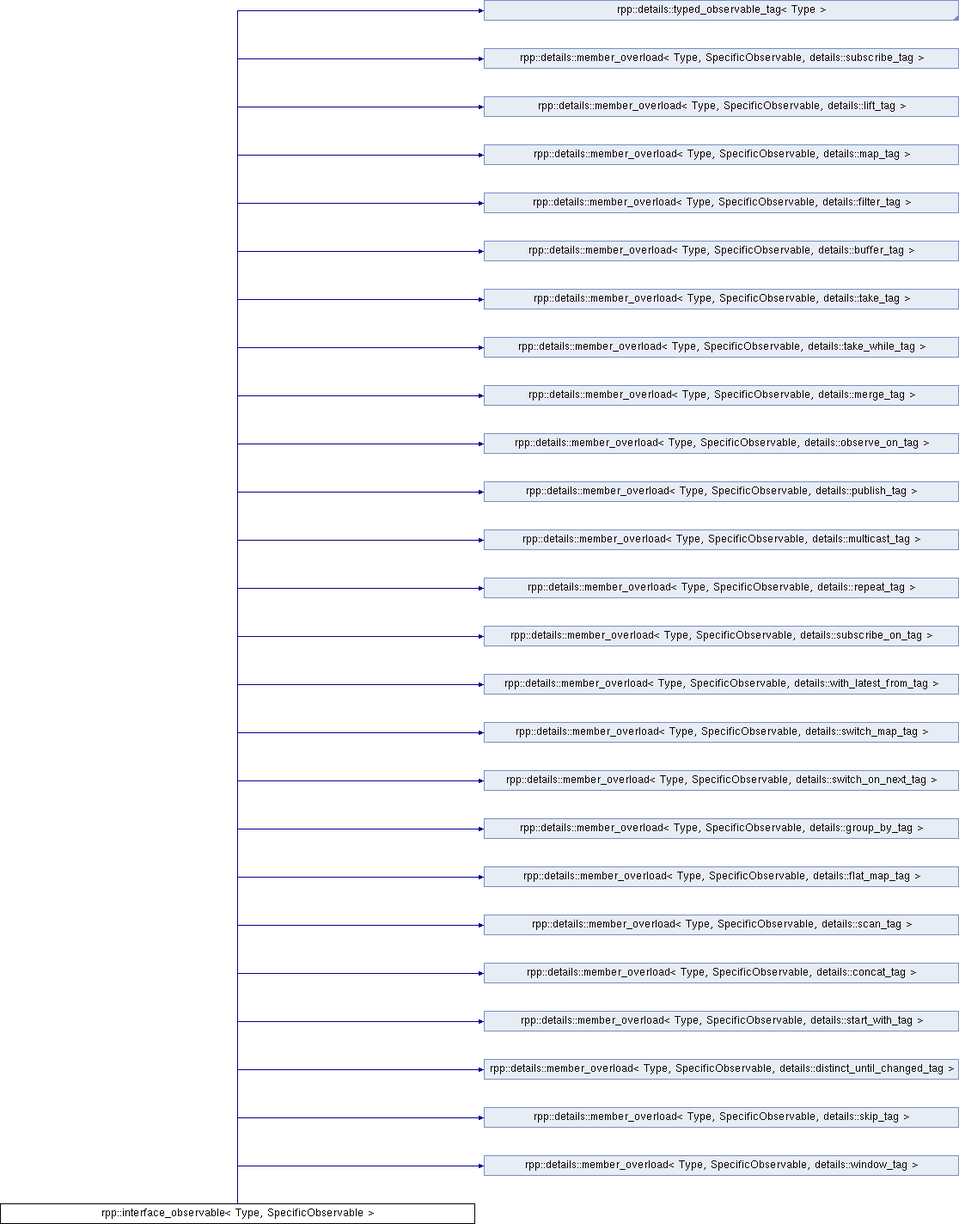
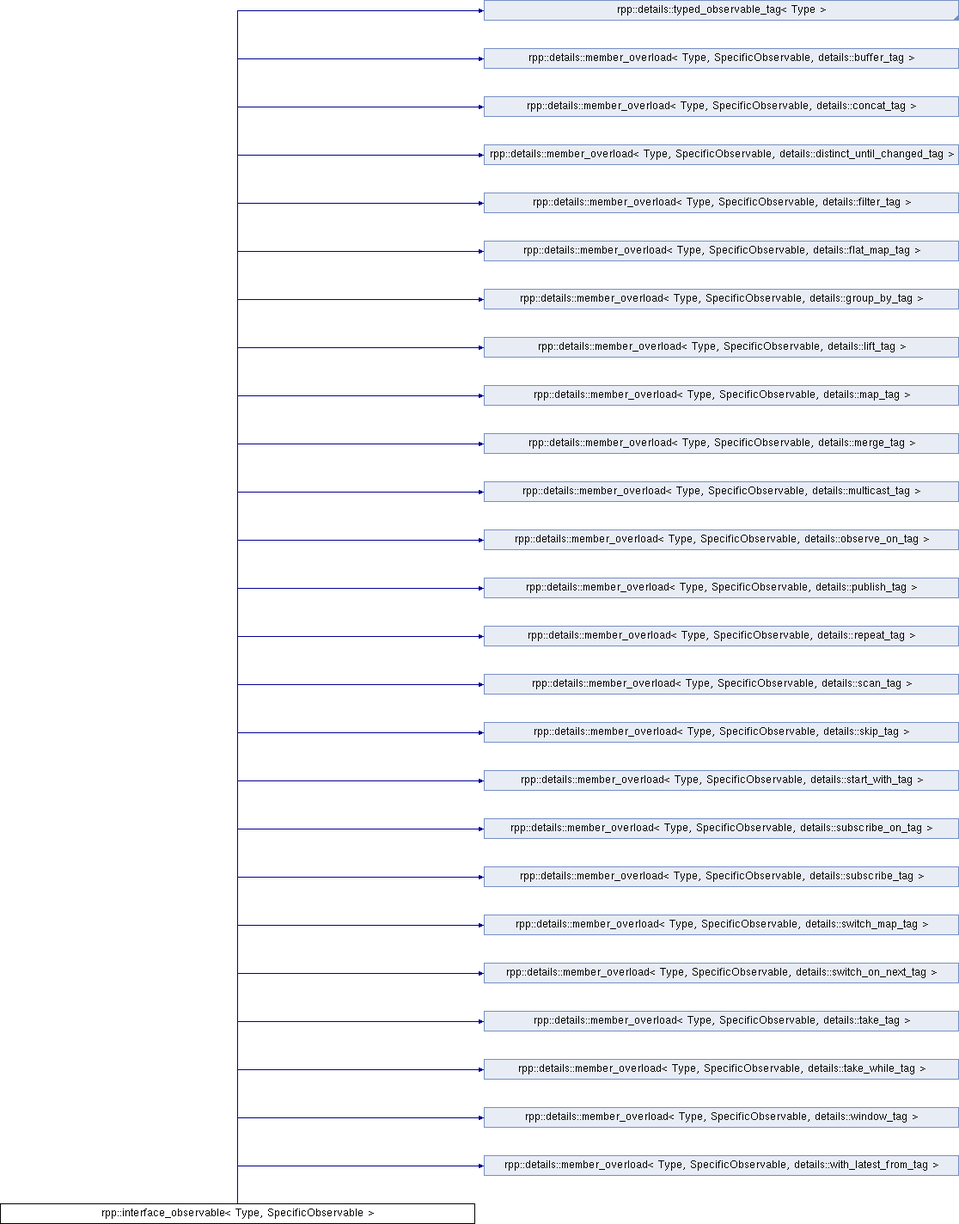
deploy: 225c458d7fb690f1608eee347e35d6b1c98f86ba

Changed region(s): [[0.853, 0.4635, 0.8835, 0.4944]]

diff --git a/docs/html/interface__observable_8hpp_source.html b/docs/html/interface__observable_8hpp_source.html
@@ -130,30 +130,30 @@ $(document).ready(function(){initNavTree('interface__observable_8hpp_source.html
 <div class="line"><a name="l00037"></a><span class="lineno">   37</span>&#160;<span class="keyword">template</span>&lt;constra<span class="keywordtype">int</span>::decayed_type Type, <span class="keyword">typename</span> SpecificObservable&gt;</div>
 <div class="line"><a name="l00038"></a><span class="lineno"><a class="line" href="structrpp_1_1interface__observable.html">   38</a></span>&#160;<span class="keyword">struct </span>RPP_EMPTY_BASES <a class="code" href="structrpp_1_1interface__observable.html">interface_observable</a></div>
 <div class="line"><a name="l00039"></a><span class="lineno">   39</span>&#160;    : <span class="keyword">public</span> <a class="code" href="structrpp_1_1details_1_1typed__observable__tag.html">details::typed_observable_tag</a>&lt;Type&gt;</div>
-<div class="line"><a name="l00040"></a><span class="lineno">   40</span>&#160;    , <a class="code" href="structrpp_1_1details_1_1member__overload.html">details::member_overload</a>&lt;Type, SpecificObservable, details::subscribe_tag&gt;</div>
-<div class="line"><a name="l00041"></a><span class="lineno">   41</span>&#160;    , <a class="code" href="structrpp_1_1details_1_1member__overload.html">details::member_overload</a>&lt;Type, SpecificObservable, details::lift_tag&gt;</div>
-<div class="line"><a name="l00042"></a><span class="lineno">   42</span>&#160;    , <a class="code" href="structrpp_1_1details_1_1member__overload.html">details::member_overload</a>&lt;Type, SpecificObservable, details::map_tag&gt;</div>
+<div class="line"><a name="l00040"></a><span class="lineno">   40</span>&#160;    , <a class="code" href="structrpp_1_1details_1_1member__overload.html">details::member_overload</a>&lt;Type, SpecificObservable, details::buffer_tag&gt;</div>
+<div class="line"><a name="l00041"></a><span class="lineno">   41</span>&#160;    , <a class="code" href="structrpp_1_1details_1_1member__overload.html">details::member_overload</a>&lt;Type, SpecificObservable, details::concat_tag&gt;</div>
+<div class="line"><a name="l00042"></a><span class="lineno">   42</span>&#160;    , <a class="code" href="structrpp_1_1details_1_1member__overload.html">details::member_overload</a>&lt;Type, SpecificObservable, details::distinct_until_changed_tag&gt;</div>
 <div class="line"><a name="l00043"></a><span class="lineno">   43</span>&#160;    , <a class="code" href="structrpp_1_1details_1_1member__overload.html">details::member_overload</a>&lt;Type, SpecificObservable, details::filter_tag&gt;</div>
-<div class="line"><a name="l00044"></a><span class="lineno">   44</span>&#160;    , <a class="code" href="structrpp_1_1details_1_1member__overload.html">details::member_overload</a>&lt;Type, SpecificObservable, details::buffer_tag&gt;</div>
-<div class="line"><a name="l00045"></a><span class="lineno">   45</span>&#160;    , <a class="code" href="structrpp_1_1details_1_1member__overload.html">details::member_overload</a>&lt;Type, SpecificObservable, details::take_tag&gt;</div>
-<div class="line"><a name="l00046"></a><span class="lineno">   46</span>&#160;    , <a class="code" href="structrpp_1_1details_1_1member__overload.html">details::member_overload</a>&lt;Type, SpecificObservable, details::take_while_tag&gt;</div>
-<div class="line"><a name="l00047"></a><span class="lineno">   47</span>&#160;    , <a class="code" href="structrpp_1_1details_1_1member__overload.html">details::member_overload</a>&lt;Type, SpecificObservable, details::merge_tag&gt;</div>
-<div class="line"><a name="l00048"></a><span class="lineno">   48</span>&#160;    , <a class="code" href="structrpp_1_1details_1_1member__overload.html">details::member_overload</a>&lt;Type, SpecificObservable, details::observe_on_tag&gt;</div>
-<div class="line"><a name="l00049"></a><span class="lineno">   49</span>&#160;    , <a class="code" href="structrpp_1_1details_1_1member__overload.html">details::member_overload</a>&lt;Type, SpecificObservable, details::publish_tag&gt;</div>
-<div class="line"><a name="l00050"></a><span class="lineno">   50</span>&#160;    , <a class="code" href="structrpp_1_1details_1_1member__overload.html">details::member_overload</a>&lt;Type, SpecificObservable, details::multicast_tag&gt;</div>
-<div class="line"><a name="l00051"></a><span class="lineno">   51</span>&#160;    , <a class="code" href="structrpp_1_1details_1_1member__overload.html">details::member_overload</a>&lt;Type, SpecificObservable, details::repeat_tag&gt;</div>
-<div class="line"><a name="l00052"></a><span class="lineno">   52</span>&#160;    , <a class="code" href="structrpp_1_1details_1_1member__overload.html">details::member_overload</a>&lt;Type, SpecificObservable, details::subscribe_on_tag&gt;</div>
-<div class="line"><a name="l00053"></a><span class="lineno">   53</span>&#160;    , <a class="code" href="structrpp_1_1details_1_1member__overload.html">details::member_overload</a>&lt;Type, SpecificObservable, details::with_latest_from_tag&gt;</div>
-<div class="line"><a name="l00054"></a><span class="lineno">   54</span>&#160;    , <a class="code" href="structrpp_1_1details_1_1member__overload.html">details::member_overload</a>&lt;Type, SpecificObservable, details::switch_map_tag&gt;</div>
-<div class="line"><a name="l00055"></a><span class="lineno">   55</span>&#160;    , <a class="code" href="structrpp_1_1details_1_1member__overload.html">details::member_overload</a>&lt;Type, SpecificObservable, details::switch_on_next_tag&gt;</div>
-<div class="line"><a name="l00056"></a><span class="lineno">   56</span>&#160;    , <a class="code" href="structrpp_1_1details_1_1member__overload.html">details::member_overload</a>&lt;Type, SpecificObservable, details::group_by_tag&gt;</div>
-<div class="line"><a name="l00057"></a><span class="lineno">   57</span>&#160;    , <a class="code" href="structrpp_1_1details_1_1member__overload.html">details::member_overload</a>&lt;Type, SpecificObservable, details::flat_map_tag&gt;</div>
-<div class="line"><a name="l00058"></a><span class="lineno">   58</span>&#160;    , <a class="code" href="structrpp_1_1details_1_1member__overload.html">details::member_overload</a>&lt;Type, SpecificObservable, details::scan_tag&gt;</div>
-<div class="line"><a name="l00059"></a><span class="lineno">   59</span>&#160;    , <a class="code" href="structrpp_1_1details_1_1member__overload.html">details::member_overload</a>&lt;Type, SpecificObservable, details::concat_tag&gt;</div>
-<div class="line"><a name="l00060"></a><span class="lineno">   60</span>&#160;    , <a class="code" href="structrpp_1_1details_1_1member__overload.html">details::member_overload</a>&lt;Type, SpecificObservable, details::start_with_tag&gt;</div>
-<div class="line"><a name="l00061"></a><span class="lineno">   61</span>&#160;    , <a class="code" href="structrpp_1_1details_1_1member__overload.html">details::member_overload</a>&lt;Type, SpecificObservable, details::distinct_until_changed_tag&gt;</div>
-<div class="line"><a name="l00062"></a><span class="lineno">   62</span>&#160;    , <a class="code" href="structrpp_1_1details_1_1member__overload.html">details::member_overload</a>&lt;Type, SpecificObservable, details::skip_tag&gt;</div>
-<div class="line"><a name="l00063"></a><span class="lineno">   63</span>&#160;    , <a class="code" href="structrpp_1_1details_1_1member__overload.html">details::member_overload</a>&lt;Type, SpecificObservable, details::window_tag&gt;</div>
+<div class="line"><a name="l00044"></a><span class="lineno">   44</span>&#160;    , <a class="code" href="structrpp_1_1details_1_1member__overload.html">details::member_overload</a>&lt;Type, SpecificObservable, details::flat_map_tag&gt;</div>
+<div class="line"><a name="l00045"></a><span class="lineno">   45</span>&#160;    , <a class="code" href="structrpp_1_1details_1_1member__overload.html">details::member_overload</a>&lt;Type, SpecificObservable, details::group_by_tag&gt;</div>
+<div class="line"><a name="l00046"></a><span class="lineno">   46</span>&#160;    , <a class="code" href="structrpp_1_1details_1_1member__overload.html">details::member_overload</a>&lt;Type, SpecificObservable, details::lift_tag&gt;</div>
+<div class="line"><a name="l00047"></a><span class="lineno">   47</span>&#160;    , <a class="code" href="structrpp_1_1details_1_1member__overload.html">details::member_overload</a>&lt;Type, SpecificObservable, details::map_tag&gt;</div>
+<div class="line"><a name="l00048"></a><span class="lineno">   48</span>&#160;    , <a class="code" href="structrpp_1_1details_1_1member__overload.html">details::member_overload</a>&lt;Type, SpecificObservable, details::merge_tag&gt;</div>
+<div class="line"><a name="l00049"></a><span class="lineno">   49</span>&#160;    , <a class="code" href="structrpp_1_1details_1_1member__overload.html">details::member_overload</a>&lt;Type, SpecificObservable, details::multicast_tag&gt;</div>
+<div class="line"><a name="l00050"></a><span class="lineno">   50</span>&#160;    , <a class="code" href="structrpp_1_1details_1_1member__overload.html">details::member_overload</a>&lt;Type, SpecificObservable, details::observe_on_tag&gt;</div>
+<div class="line"><a name="l00051"></a><span class="lineno">   51</span>&#160;    , <a class="code" href="structrpp_1_1details_1_1member__overload.html">details::member_overload</a>&lt;Type, SpecificObservable, details::publish_tag&gt;</div>
+<div class="line"><a name="l00052"></a><span class="lineno">   52</span>&#160;    , <a class="code" href="structrpp_1_1details_1_1member__overload.html">details::member_overload</a>&lt;Type, SpecificObservable, details::repeat_tag&gt;</div>
+<div class="line"><a name="l00053"></a><span class="lineno">   53</span>&#160;    , <a class="code" href="structrpp_1_1details_1_1member__overload.html">details::member_overload</a>&lt;Type, SpecificObservable, details::scan_tag&gt;</div>
+<div class="line"><a name="l00054"></a><span class="lineno">   54</span>&#160;    , <a class="code" href="structrpp_1_1details_1_1member__overload.html">details::member_overload</a>&lt;Type, SpecificObservable, details::skip_tag&gt;</div>
+<div class="line"><a name="l00055"></a><span class="lineno">   55</span>&#160;    , <a class="code" href="structrpp_1_1details_1_1member__overload.html">details::member_overload</a>&lt;Type, SpecificObservable, details::start_with_tag&gt;</div>
+<div class="line"><a name="l00056"></a><span class="lineno">   56</span>&#160;    , <a class="code" href="structrpp_1_1details_1_1member__overload.html">details::member_overload</a>&lt;Type, SpecificObservable, details::subscribe_on_tag&gt;</div>
+<div class="line"><a name="l00057"></a><span class="lineno">   57</span>&#160;    , <a class="code" href="structrpp_1_1details_1_1member__overload.html">details::member_overload</a>&lt;Type, SpecificObservable, details::subscribe_tag&gt;</div>
+<div class="line"><a name="l00058"></a><span class="lineno">   58</span>&#160;    , <a class="code" href="structrpp_1_1details_1_1member__overload.html">details::member_overload</a>&lt;Type, SpecificObservable, details::switch_map_tag&gt;</div>
+<div class="line"><a name="l00059"></a><span class="lineno">   59</span>&#160;    , <a class="code" href="structrpp_1_1details_1_1member__overload.html">details::member_overload</a>&lt;Type, SpecificObservable, details::switch_on_next_tag&gt;</div>
+<div class="line"><a name="l00060"></a><span class="lineno">   60</span>&#160;    , <a class="code" href="structrpp_1_1details_1_1member__overload.html">details::member_overload</a>&lt;Type, SpecificObservable, details::take_tag&gt;</div>
+<div class="line"><a name="l00061"></a><span class="lineno">   61</span>&#160;    , <a class="code" href="structrpp_1_1details_1_1member__overload.html">details::member_overload</a>&lt;Type, SpecificObservable, details::take_while_tag&gt;</div>
+<div class="line"><a name="l00062"></a><span class="lineno">   62</span>&#160;    , <a class="code" href="structrpp_1_1details_1_1member__overload.html">details::member_overload</a>&lt;Type, SpecificObservable, details::window_tag&gt;</div>
+<div class="line"><a name="l00063"></a><span class="lineno">   63</span>&#160;    , <a class="code" href="structrpp_1_1details_1_1member__overload.html">details::member_overload</a>&lt;Type, SpecificObservable, details::with_latest_from_tag&gt;</div>
 <div class="line"><a name="l00064"></a><span class="lineno">   64</span>&#160;{</div>
 <div class="line"><a name="l00065"></a><span class="lineno">   65</span>&#160;<span class="keyword">public</span>:</div>
 <div class="line"><a name="l00066"></a><span class="lineno">   66</span>&#160; </div>

diff --git a/docs/html/structrpp_1_1interface__observable.html b/docs/html/structrpp_1_1interface__observable.html
@@ -110,30 +110,30 @@ Inheritance diagram for rpp::interface_observable&lt; Type, SpecificObservable &
  <div class="center">
   <img src="structrpp_1_1interface__observable.png" usemap="#rpp::interface_5Fobservable_3C_20Type_2C_20SpecificObservable_20_3E_map" alt=""/>
   <map id="rpp::interface_5Fobservable_3C_20Type_2C_20SpecificObservable_20_3E_map" name="rpp::interface_5Fobservable_3C_20Type_2C_20SpecificObservable_20_3E_map">
-<area href="structrpp_1_1details_1_1member__overload.html" alt="rpp::details::member_overload&lt; Type, SpecificObservable, details::window_tag &gt;" shape="rect" coords="563,1344,1116,1368"/>
-<area href="structrpp_1_1details_1_1member__overload.html" alt="rpp::details::member_overload&lt; Type, SpecificObservable, details::skip_tag &gt;" shape="rect" coords="563,1288,1116,1312"/>
-<area href="structrpp_1_1details_1_1member__overload.html" alt="rpp::details::member_overload&lt; Type, SpecificObservable, details::distinct_until_changed_tag &gt;" shape="rect" coords="563,1232,1116,1256"/>
-<area href="structrpp_1_1details_1_1member__overload.html" alt="rpp::details::member_overload&lt; Type, SpecificObservable, details::start_with_tag &gt;" shape="rect" coords="563,1176,1116,1200"/>
-<area href="structrpp_1_1details_1_1member__overload.html" alt="rpp::details::member_overload&lt; Type, SpecificObservable, details::concat_tag &gt;" shape="rect" coords="563,1120,1116,1144"/>
-<area href="structrpp_1_1details_1_1member__overload.html" alt="rpp::details::member_overload&lt; Type, SpecificObservable, details::scan_tag &gt;" shape="rect" coords="563,1064,1116,1088"/>
-<area href="structrpp_1_1details_1_1member__overload.html" alt="rpp::details::member_overload&lt; Type, SpecificObservable, details::flat_map_tag &gt;" shape="rect" coords="563,1008,1116,1032"/>
-<area href="structrpp_1_1details_1_1member__overload.html" alt="rpp::details::member_overload&lt; Type, SpecificObservable, details::group_by_tag &gt;" shape="rect" coords="563,952,1116,976"/>
-<area href="structrpp_1_1details_1_1member__overload.html" alt="rpp::details::member_overload&lt; Type, SpecificObservable, details::switch_on_next_tag &gt;" shape="rect" coords="563,896,1116,920"/>
-<area href="structrpp_1_1details_1_1member__overload.html" alt="rpp::details::member_overload&lt; Type, SpecificObservable, details::switch_map_tag &gt;" shape="rect" coords="563,840,1116,864"/>
-<area href="structrpp_1_1details_1_1member__overload.html" alt="rpp::details::member_overload&lt; Type, SpecificObservable, details::with_latest_from_tag &gt;" shape="rect" coords="563,784,1116,808"/>
-<area href="structrpp_1_1details_1_1member__overload.html" alt="rpp::details::member_overload&lt; Type, SpecificObservable, details::subscribe_on_tag &gt;" shape="rect" coords="563,728,1116,752"/>
-<area href="structrpp_1_1details_1_1member__overload.html" alt="rpp::details::member_overload&lt; Type, SpecificObservable, details::repeat_tag &gt;" shape="rect" coords="563,672,1116,696"/>
-<area href="structrpp_1_1details_1_1member__overload.html" alt="rpp::details::member_overload&lt; Type, SpecificObservable, details::multicast_tag &gt;" shape="rect" coords="563,616,1116,640"/>
-<area href="structrpp_1_1details_1_1member__overload.html" alt="rpp::details::member_overload&lt; Type, SpecificObservable, details::publish_tag &gt;" shape="rect" coords="563,560,1116,584"/>
-<area href="structrpp_1_1details_1_1member__overload.html" alt="rpp::details::member_overload&lt; Type, SpecificObservable, details::observe_on_tag &gt;" shape="rect" coords="563,504,1116,528"/>
-<area href="structrpp_1_1details_1_1member__overload.html" alt="rpp::details::member_overload&lt; Type, SpecificObservable, details::merge_tag &gt;" shape="rect" coords="563,448,1116,472"/>
-<area href="structrpp_1_1details_1_1member__overload.html" alt="rpp::details::member_overload&lt; Type, SpecificObservable, details::take_while_tag &gt;" shape="rect" coords="563,392,1116,416"/>
-<area href="structrpp_1_1details_1_1member__overload.html" alt="rpp::details::member_overload&lt; Type, SpecificObservable, details::take_tag &gt;" shape="rect" coords="563,336,1116,360"/>
-<area href="structrpp_1_1details_1_1member__overload.html" alt="rpp::details::member_overload&lt; Type, SpecificObservable, details::buffer_tag &gt;" shape="rect" coords="563,280,1116,304"/>
+<area href="structrpp_1_1details_1_1member__overload.html" alt="rpp::details::member_overload&lt; Type, SpecificObservable, details::with_latest_from_tag &gt;" shape="rect" coords="563,1344,1116,1368"/>
+<area href="structrpp_1_1details_1_1member__overload.html" alt="rpp::details::member_overload&lt; Type, SpecificObservable, details::window_tag &gt;" shape="rect" coords="563,1288,1116,1312"/>
+<area href="structrpp_1_1details_1_1member__overload.html" alt="rpp::details::member_overload&lt; Type, SpecificObservable, details::take_while_tag &gt;" shape="rect" coords="563,1232,1116,1256"/>
+<area href="structrpp_1_1details_1_1member__overload.html" alt="rpp::details::member_overload&lt; Type, SpecificObservable, details::take_tag &gt;" shape="rect" coords="563,1176,1116,1200"/>
+<area href="structrpp_1_1details_1_1member__overload.html" alt="rpp::details::member_overload&lt; Type, SpecificObservable, details::switch_on_next_tag &gt;" shape="rect" coords="563,1120,1116,1144"/>
+<area href="structrpp_1_1details_1_1member__overload.html" alt="rpp::details::member_overload&lt; Type, SpecificObservable, details::switch_map_tag &gt;" shape="rect" coords="563,1064,1116,1088"/>
+<area href="structrpp_1_1details_1_1member__overload.html" alt="rpp::details::member_overload&lt; Type, SpecificObservable, details::subscribe_tag &gt;" shape="rect" coords="563,1008,1116,1032"/>
+<area href="structrpp_1_1details_1_1member__overload.html" alt="rpp::details::member_overload&lt; Type, SpecificObservable, details::subscribe_on_tag &gt;" shape="rect" coords="563,952,1116,976"/>
+<area href="structrpp_1_1details_1_1member__overload.html" alt="rpp::details::member_overload&lt; Type, SpecificObservable, details::start_with_tag &gt;" shape="rect" coords="563,896,1116,920"/>
+<area href="structrpp_1_1details_1_1member__overload.html" alt="rpp::details::member_overload&lt; Type, SpecificObservable, details::skip_tag &gt;" shape="rect" coords="563,840,1116,864"/>
+<area href="structrpp_1_1details_1_1member__overload.html" alt="rpp::details::member_overload&lt; Type, SpecificObservable, details::scan_tag &gt;" shape="rect" coords="563,784,1116,808"/>
+<area href="structrpp_1_1details_1_1member__overload.html" alt="rpp::details::member_overload&lt; Type, SpecificObservable, details::repeat_tag &gt;" shape="rect" coords="563,728,1116,752"/>
+<area href="structrpp_1_1details_1_1member__overload.html" alt="rpp::details::member_overload&lt; Type, SpecificObservable, details::publish_tag &gt;" shape="rect" coords="563,672,1116,696"/>
+<area href="structrpp_1_1details_1_1member__overload.html" alt="rpp::details::member_overload&lt; Type, SpecificObservable, details::observe_on_tag &gt;" shape="rect" coords="563,616,1116,640"/>
+<area href="structrpp_1_1details_1_1member__overload.html" alt="rpp::details::member_overload&lt; Type, SpecificObservable, details::multicast_tag &gt;" shape="rect" coords="563,560,1116,584"/>
+<area href="structrpp_1_1details_1_1member__overload.html" alt="rpp::details::member_overload&lt; Type, SpecificObservable, details::merge_tag &gt;" shape="rect" coords="563,504,1116,528"/>
+<area href="structrpp_1_1details_1_1member__overload.html" alt="rpp::details::member_overload&lt; Type, SpecificObservable, details::map_tag &gt;" shape="rect" coords="563,448,1116,472"/>
+<area href="structrpp_1_1details_1_1member__overload.html" alt="rpp::details::member_overload&lt; Type, SpecificObservable, details::lift_tag &gt;" shape="rect" coords="563,392,1116,416"/>
+<area href="structrpp_1_1details_1_1member__overload.html" alt="rpp::details::member_overload&lt; Type, SpecificObservable, details::group_by_tag &gt;" shape="rect" coords="563,336,1116,360"/>
+<area href="structrpp_1_1details_1_1member__overload.html" alt="rpp::details::member_overload&lt; Type, SpecificObservable, details::flat_map_tag &gt;" shape="rect" coords="563,280,1116,304"/>
 <area href="structrpp_1_1details_1_1member__overload.html" alt="rpp::details::member_overload&lt; Type, SpecificObservable, details::filter_tag &gt;" shape="rect" coords="563,224,1116,248"/>
-<area href="structrpp_1_1details_1_1member__overload.html" alt="rpp::details::member_overload&lt; Type, SpecificObservable, details::map_tag &gt;" shape="rect" coords="563,168,1116,192"/>
-<area href="structrpp_1_1details_1_1member__overload.html" alt="rpp::details::member_overload&lt; Type, SpecificObservable, details::lift_tag &gt;" shape="rect" coords="563,112,1116,136"/>
-<area href="structrpp_1_1details_1_1member__overload.html" alt="rpp::details::member_overload&lt; Type, SpecificObservable, details::subscribe_tag &gt;" shape="rect" coords="563,56,1116,80"/>
+<area href="structrpp_1_1details_1_1member__overload.html" alt="rpp::details::member_overload&lt; Type, SpecificObservable, details::distinct_until_changed_tag &gt;" shape="rect" coords="563,168,1116,192"/>
+<area href="structrpp_1_1details_1_1member__overload.html" alt="rpp::details::member_overload&lt; Type, SpecificObservable, details::concat_tag &gt;" shape="rect" coords="563,112,1116,136"/>
+<area href="structrpp_1_1details_1_1member__overload.html" alt="rpp::details::member_overload&lt; Type, SpecificObservable, details::buffer_tag &gt;" shape="rect" coords="563,56,1116,80"/>
 <area href="structrpp_1_1details_1_1typed__observable__tag.html" alt="rpp::details::typed_observable_tag&lt; Type &gt;" shape="rect" coords="563,0,1116,24"/>
   </map>
 </div></div>

diff --git a/docs/html/operators_2fwd_8hpp_source.html b/docs/html/operators_2fwd_8hpp_source.html
@@ -108,30 +108,30 @@ $(document).ready(function(){initNavTree('operators_2fwd_8hpp_source.html',''); 
 <div class="line"><a name="l00010"></a><span class="lineno">   10</span>&#160; </div>
 <div class="line"><a name="l00011"></a><span class="lineno">   11</span>&#160;<span class="preprocessor">#pragma once</span></div>
 <div class="line"><a name="l00012"></a><span class="lineno">   12</span>&#160; </div>
-<div class="line"><a name="l00013"></a><span class="lineno">   13</span>&#160;<span class="preprocessor">#include &lt;rpp/operators/fwd/filter.hpp&gt;</span></div>
-<div class="line"><a name="l00014"></a><span class="lineno">   14</span>&#160;<span class="preprocessor">#include &lt;rpp/operators/fwd/buffer.hpp&gt;</span></div>
-<div class="line"><a name="l00015"></a><span class="lineno">   15</span>&#160;<span class="preprocessor">#include &lt;rpp/operators/fwd/map.hpp&gt;</span></div>
-<div class="line"><a name="l00016"></a><span class="lineno">   16</span>&#160;<span class="preprocessor">#include &lt;rpp/operators/fwd/take.hpp&gt;</span></div>
-<div class="line"><a name="l00017"></a><span class="lineno">   17</span>&#160;<span class="preprocessor">#include &lt;rpp/operators/fwd/take_while.hpp&gt;</span></div>
-<div class="line"><a name="l00018"></a><span class="lineno">   18</span>&#160;<span class="preprocessor">#include &lt;rpp/operators/fwd/merge.hpp&gt;</span></div>
-<div class="line"><a name="l00019"></a><span class="lineno">   19</span>&#160;<span class="preprocessor">#include &lt;rpp/operators/fwd/observe_on.hpp&gt;</span></div>
-<div class="line"><a name="l00020"></a><span class="lineno">   20</span>&#160;<span class="preprocessor">#include &lt;rpp/operators/fwd/multicast.hpp&gt;</span></div>
-<div class="line"><a name="l00021"></a><span class="lineno">   21</span>&#160;<span class="preprocessor">#include &lt;rpp/operators/fwd/publish.hpp&gt;</span></div>
-<div class="line"><a name="l00022"></a><span class="lineno">   22</span>&#160;<span class="preprocessor">#include &lt;rpp/operators/fwd/ref_count.hpp&gt;</span></div>
-<div class="line"><a name="l00023"></a><span class="lineno">   23</span>&#160;<span class="preprocessor">#include &lt;rpp/operators/fwd/repeat.hpp&gt;</span></div>
-<div class="line"><a name="l00024"></a><span class="lineno">   24</span>&#160;<span class="preprocessor">#include &lt;rpp/operators/fwd/subscribe_on.hpp&gt;</span></div>
-<div class="line"><a name="l00025"></a><span class="lineno">   25</span>&#160;<span class="preprocessor">#include &lt;rpp/operators/fwd/with_latest_from.hpp&gt;</span></div>
-<div class="line"><a name="l00026"></a><span class="lineno">   26</span>&#160;<span class="preprocessor">#include &lt;rpp/operators/fwd/switch_map.hpp&gt;</span></div>
-<div class="line"><a name="l00027"></a><span class="lineno">   27</span>&#160;<span class="preprocessor">#include &lt;rpp/operators/fwd/switch_on_next.hpp&gt;</span></div>
-<div class="line"><a name="l00028"></a><span class="lineno">   28</span>&#160;<span class="preprocessor">#include &lt;rpp/operators/fwd/subscribe.hpp&gt;</span></div>
-<div class="line"><a name="l00029"></a><span class="lineno">   29</span>&#160;<span class="preprocessor">#include &lt;rpp/operators/fwd/group_by.hpp&gt;</span></div>
-<div class="line"><a name="l00030"></a><span class="lineno">   30</span>&#160;<span class="preprocessor">#include &lt;rpp/operators/fwd/flat_map.hpp&gt;</span></div>
-<div class="line"><a name="l00031"></a><span class="lineno">   31</span>&#160;<span class="preprocessor">#include &lt;rpp/operators/fwd/scan.hpp&gt;</span></div>
-<div class="line"><a name="l00032"></a><span class="lineno">   32</span>&#160;<span class="preprocessor">#include &lt;rpp/operators/fwd/concat.hpp&gt;</span></div>
-<div class="line"><a name="l00033"></a><span class="lineno">   33</span>&#160;<span class="preprocessor">#include &lt;rpp/operators/fwd/start_with.hpp&gt;</span></div>
-<div class="line"><a name="l00034"></a><span class="lineno">   34</span>&#160;<span class="preprocessor">#include &lt;rpp/operators/fwd/distinct_until_changed.hpp&gt;</span></div>
-<div class="line"><a name="l00035"></a><span class="lineno">   35</span>&#160;<span class="preprocessor">#include &lt;rpp/operators/fwd/skip.hpp&gt;</span></div>
-<div class="line"><a name="l00036"></a><span class="lineno">   36</span>&#160;<span class="preprocessor">#include &lt;rpp/operators/fwd/window.hpp&gt;</span></div>
+<div class="line"><a name="l00013"></a><span class="lineno">   13</span>&#160;<span class="preprocessor">#include &lt;rpp/operators/fwd/buffer.hpp&gt;</span></div>
+<div class="line"><a name="l00014"></a><span class="lineno">   14</span>&#160;<span class="preprocessor">#include &lt;rpp/operators/fwd/concat.hpp&gt;</span></div>
+<div class="line"><a name="l00015"></a><span class="lineno">   15</span>&#160;<span class="preprocessor">#include &lt;rpp/operators/fwd/distinct_until_changed.hpp&gt;</span></div>
+<div class="line"><a name="l00016"></a><span class="lineno">   16</span>&#160;<span class="preprocessor">#include &lt;rpp/operators/fwd/filter.hpp&gt;</span></div>
+<div class="line"><a name="l00017"></a><span class="lineno">   17</span>&#160;<span class="preprocessor">#include &lt;rpp/operators/fwd/flat_map.hpp&gt;</span></div>
+<div class="line"><a name="l00018"></a><span class="lineno">   18</span>&#160;<span class="preprocessor">#include &lt;rpp/operators/fwd/group_by.hpp&gt;</span></div>
+<div class="line"><a name="l00019"></a><span class="lineno">   19</span>&#160;<span class="preprocessor">#include &lt;rpp/operators/fwd/map.hpp&gt;</span></div>
+<div class="line"><a name="l00020"></a><span class="lineno">   20</span>&#160;<span class="preprocessor">#include &lt;rpp/operators/fwd/merge.hpp&gt;</span></div>
+<div class="line"><a name="l00021"></a><span class="lineno">   21</span>&#160;<span class="preprocessor">#include &lt;rpp/operators/fwd/multicast.hpp&gt;</span></div>
+<div class="line"><a name="l00022"></a><span class="lineno">   22</span>&#160;<span class="preprocessor">#include &lt;rpp/operators/fwd/observe_on.hpp&gt;</span></div>
+<div class="line"><a name="l00023"></a><span class="lineno">   23</span>&#160;<span class="preprocessor">#include &lt;rpp/operators/fwd/publish.hpp&gt;</span></div>
+<div class="line"><a name="l00024"></a><span class="lineno">   24</span>&#160;<span class="preprocessor">#include &lt;rpp/operators/fwd/ref_count.hpp&gt;</span></div>
+<div class="line"><a name="l00025"></a><span class="lineno">   25</span>&#160;<span class="preprocessor">#include &lt;rpp/operators/fwd/repeat.hpp&gt;</span></div>
+<div class="line"><a name="l00026"></a><span class="lineno">   26</span>&#160;<span class="preprocessor">#include &lt;rpp/operators/fwd/scan.hpp&gt;</span></div>
+<div class="line"><a name="l00027"></a><span class="lineno">   27</span>&#160;<span class="preprocessor">#include &lt;rpp/operators/fwd/skip.hpp&gt;</span></div>
+<div class="line"><a name="l00028"></a><span class="lineno">   28</span>&#160;<span class="preprocessor">#include &lt;rpp/operators/fwd/start_with.hpp&gt;</span></div>
+<div class="line"><a name="l00029"></a><span class="lineno">   29</span>&#160;<span class="preprocessor">#include &lt;rpp/operators/fwd/subscribe.hpp&gt;</span></div>
+<div class="line"><a name="l00030"></a><span class="lineno">   30</span>&#160;<span class="preprocessor">#include &lt;rpp/operators/fwd/subscribe_on.hpp&gt;</span></div>
+<div class="line"><a name="l00031"></a><span class="lineno">   31</span>&#160;<span class="preprocessor">#include &lt;rpp/operators/fwd/switch_map.hpp&gt;</span></div>
+<div class="line"><a name="l00032"></a><span class="lineno">   32</span>&#160;<span class="preprocessor">#include &lt;rpp/operators/fwd/switch_on_next.hpp&gt;</span></div>
+<div class="line"><a name="l00033"></a><span class="lineno">   33</span>&#160;<span class="preprocessor">#include &lt;rpp/operators/fwd/take.hpp&gt;</span></div>
+<div class="line"><a name="l00034"></a><span class="lineno">   34</span>&#160;<span class="preprocessor">#include &lt;rpp/operators/fwd/take_while.hpp&gt;</span></div>
+<div class="line"><a name="l00035"></a><span class="lineno">   35</span>&#160;<span class="preprocessor">#include &lt;rpp/operators/fwd/window.hpp&gt;</span></div>
+<div class="line"><a name="l00036"></a><span class="lineno">   36</span>&#160;<span class="preprocessor">#include &lt;rpp/operators/fwd/with_latest_from.hpp&gt;</span></div>
 </div><!-- fragment --></div><!-- contents -->
 </div><!-- doc-content -->
 <!-- start footer part -->

diff --git a/docs/html/hierarchy.html b/docs/html/hierarchy.html
@@ -266,8 +266,8 @@ $(document).ready(function(){initNavTree('hierarchy.html',''); initResizable(); 
 <tr id="row_111_"><td class="entry"><span style="width:16px;display:inline-block;">&#160;</span><span class="icona"><span class="icon">C</span></span><a class="el" href="structrpp_1_1details_1_1window__lift__impl.html" target="_self">rpp::details::window_lift_impl&lt; Type &gt;</a></td><td class="desc"></td></tr>
 <tr id="row_112_" class="even"><td class="entry"><span style="width:16px;display:inline-block;">&#160;</span><span class="icona"><span class="icon">C</span></span><a class="el" href="structrpp_1_1details_1_1with__latest__from__impl.html" target="_self">rpp::details::with_latest_from_impl&lt; Type, TSelector, TObservables &gt;</a></td><td class="desc"></td></tr>
 <tr id="row_113_"><td class="entry"><span style="width:16px;display:inline-block;">&#160;</span><span class="icona"><span class="icon">C</span></span><a class="el" href="structrpp_1_1details_1_1with__latest__from__state__t.html" target="_self">rpp::details::with_latest_from_state_t&lt; ValueTypes &gt;</a></td><td class="desc"></td></tr>
-<tr id="row_114_" class="even"><td class="entry"><span style="width:16px;display:inline-block;">&#160;</span><span class="icona"><span class="icon">C</span></span><a class="el" href="classrpp_1_1schedulers_1_1new__thread_1_1worker__strategy.html" target="_self">rpp::schedulers::new_thread::worker_strategy</a></td><td class="desc"></td></tr>
-<tr id="row_115_"><td class="entry"><span style="width:16px;display:inline-block;">&#160;</span><span class="icona"><span class="icon">C</span></span><a class="el" href="classrpp_1_1schedulers_1_1immediate_1_1worker__strategy.html" target="_self">rpp::schedulers::immediate::worker_strategy</a></td><td class="desc"></td></tr>
+<tr id="row_114_" class="even"><td class="entry"><span style="width:16px;display:inline-block;">&#160;</span><span class="icona"><span class="icon">C</span></span><a class="el" href="classrpp_1_1schedulers_1_1immediate_1_1worker__strategy.html" target="_self">rpp::schedulers::immediate::worker_strategy</a></td><td class="desc"></td></tr>
+<tr id="row_115_"><td class="entry"><span style="width:16px;display:inline-block;">&#160;</span><span class="icona"><span class="icon">C</span></span><a class="el" href="classrpp_1_1schedulers_1_1new__thread_1_1worker__strategy.html" target="_self">rpp::schedulers::new_thread::worker_strategy</a></td><td class="desc"></td></tr>
 <tr id="row_116_" class="even"><td class="entry"><span style="width:0px;display:inline-block;">&#160;</span><span id="arr_116_" class="arrow" onclick="toggleFolder('116_')">&#9658;</span><span class="icona"><span class="icon">C</span></span><a class="el" href="structrpp_1_1schedulers_1_1details_1_1worker__tag.html" target="_self">rpp::schedulers::details::worker_tag</a></td><td class="desc"></td></tr>
 <tr id="row_116_0_" style="display:none;"><td class="entry"><span style="width:32px;display:inline-block;">&#160;</span><span class="icona"><span class="icon">C</span></span><a class="el" href="classrpp_1_1schedulers_1_1worker.html" target="_self">rpp::schedulers::worker&lt; Strategy &gt;</a></td><td class="desc"></td></tr>
 </table>

diff --git a/docs/html/classes.html b/docs/html/classes.html
@@ -252,7 +252,7 @@ $(document).ready(function(){initNavTree('classes.html',''); initResizable(); })
 <td valign="top"><a class="el" href="structrpp_1_1details_1_1member__overload.html">member_overload</a> (rpp::details)&#160;&#160;&#160;</td>
 <td valign="top"><a class="el" href="classrpp_1_1schedulers_1_1new__thread.html">new_thread</a> (rpp::schedulers)&#160;&#160;&#160;</td>
 <td valign="top"><a class="el" href="classrpp_1_1specific__observer.html">specific_observer</a> (rpp)&#160;&#160;&#160;</td>
-<td valign="top"><a class="el" href="classrpp_1_1schedulers_1_1new__thread_1_1worker__strategy.html">new_thread::worker_strategy</a> (rpp::schedulers)&#160;&#160;&#160;</td>
+<td valign="top"><a class="el" href="classrpp_1_1schedulers_1_1immediate_1_1worker__strategy.html">immediate::worker_strategy</a> (rpp::schedulers)&#160;&#160;&#160;</td>
 </tr>
 <tr><td rowspan="2" valign="bottom"><a name="letter_e"></a><table border="0" cellspacing="0" cellpadding="0"><tr><td><div class="ah">&#160;&#160;e&#160;&#160;</div></td></tr></table>
 </td>
@@ -260,7 +260,7 @@ $(document).ready(function(){initNavTree('classes.html',''); initResizable(); })
 <td rowspan="2" valign="bottom"><a name="letter_o"></a><table border="0" cellspacing="0" cellpadding="0"><tr><td><div class="ah">&#160;&#160;o&#160;&#160;</div></td></tr></table>
 </td>
 <td valign="top"><a class="el" href="classrpp_1_1specific__subscriber.html">specific_subscriber</a> (rpp)&#160;&#160;&#160;</td>
-<td valign="top"><a class="el" href="classrpp_1_1schedulers_1_1immediate_1_1worker__strategy.html">immediate::worker_strategy</a> (rpp::schedulers)&#160;&#160;&#160;</td>
+<td valign="top"><a class="el" href="classrpp_1_1schedulers_1_1new__thread_1_1worker__strategy.html">new_thread::worker_strategy</a> (rpp::schedulers)&#160;&#160;&#160;</td>
 </tr>
 <tr><td valign="top"><a class="el" href="structrpp_1_1details_1_1member__overload_3_01_type_00_01_specific_observable_00_01concat__tag_01_4.html">member_overload&lt; Type, SpecificObservable, concat_tag &gt;</a> (rpp::details)&#160;&#160;&#160;</td>
 <td valign="top"><a class="el" href="classrpp_1_1subjects_1_1details_1_1subject__state.html">subject_state</a> (rpp::subjects::details)&#160;&#160;&#160;</td>

diff --git a/docs/html/search/all_13.js b/docs/html/search/all_13.js
@@ -7,6 +7,6 @@ var searchData=
   ['with_5flatest_5ffrom_5fimpl_199',['with_latest_from_impl',['../structrpp_1_1details_1_1with__latest__from__impl.html',1,'rpp::details']]],
   ['with_5flatest_5ffrom_5fstate_5ft_200',['with_latest_from_state_t',['../structrpp_1_1details_1_1with__latest__from__state__t.html',1,'rpp::details']]],
   ['worker_201',['worker',['../classrpp_1_1schedulers_1_1worker.html',1,'rpp::schedulers']]],
-  ['worker_5fstrategy_202',['worker_strategy',['../classrpp_1_1schedulers_1_1new__thread_1_1worker__strategy.html',1,'rpp::schedulers::new_thread::worker_strategy'],['../classrpp_1_1schedulers_1_1immediate_1_1worker__strategy.html',1,'rpp::schedulers::immediate::worker_strategy']]],
+  ['worker_5fstrategy_202',['worker_strategy',['../classrpp_1_1schedulers_1_1immediate_1_1worker__strategy.html',1,'rpp::schedulers::immediate::worker_strategy'],['../classrpp_1_1schedulers_1_1new__thread_1_1worker__strategy.html',1,'rpp::schedulers::new_thread::worker_strategy']]],
   ['worker_5ftag_203',['worker_tag',['../structrpp_1_1schedulers_1_1details_1_1worker__tag.html',1,'rpp::schedulers::details']]]
 ];

diff --git a/docs/html/search/classes_11.js b/docs/html/search/classes_11.js
@@ -5,6 +5,6 @@ var searchData=
   ['with_5flatest_5ffrom_5fimpl_343',['with_latest_from_impl',['../structrpp_1_1details_1_1with__latest__from__impl.html',1,'rpp::details']]],
   ['with_5flatest_5ffrom_5fstate_5ft_344',['with_latest_from_state_t',['../structrpp_1_1details_1_1with__latest__from__state__t.html',1,'rpp::details']]],
   ['worker_345',['worker',['../classrpp_1_1schedulers_1_1worker.html',1,'rpp::schedulers']]],
-  ['worker_5fstrategy_346',['worker_strategy',['../classrpp_1_1schedulers_1_1new__thread_1_1worker__strategy.html',1,'rpp::schedulers::new_thread::worker_strategy'],['../classrpp_1_1schedulers_1_1immediate_1_1worker__strategy.html',1,'rpp::schedulers::immediate::worker_strategy']]],
+  ['worker_5fstrategy_346',['worker_strategy',['../classrpp_1_1schedulers_1_1immediate_1_1worker__strategy.html',1,'rpp::schedulers::immediate::worker_strategy'],['../classrpp_1_1schedulers_1_1new__thread_1_1worker__strategy.html',1,'rpp::schedulers::new_thread::worker_strategy']]],
   ['worker_5ftag_347',['worker_tag',['../structrpp_1_1schedulers_1_1details_1_1worker__tag.html',1,'rpp::schedulers::details']]]
 ];

diff --git a/docs/html/hierarchy.js b/docs/html/hierarchy.js
@@ -210,8 +210,8 @@ var hierarchy =
     [ "rpp::details::window_lift_impl< Type >", "structrpp_1_1details_1_1window__lift__impl.html", null ],
     [ "rpp::details::with_latest_from_impl< Type, TSelector, TObservables >", "structrpp_1_1details_1_1with__latest__from__impl.html", null ],
     [ "rpp::details::with_latest_from_state_t< ValueTypes >", "structrpp_1_1details_1_1with__latest__from__state__t.html", null ],
-    [ "rpp::schedulers::new_thread::worker_strategy", "classrpp_1_1schedulers_1_1new__thread_1_1worker__strategy.html", null ],
     [ "rpp::schedulers::immediate::worker_strategy", "classrpp_1_1schedulers_1_1immediate_1_1worker__strategy.html", null ],
+    [ "rpp::schedulers::new_thread::worker_strategy", "classrpp_1_1schedulers_1_1new__thread_1_1worker__strategy.html", null ],
     [ "rpp::schedulers::details::worker_tag", "structrpp_1_1schedulers_1_1details_1_1worker__tag.html", [
       [ "rpp::schedulers::worker< Strategy >", "classrpp_1_1schedulers_1_1worker.html", null ]
     ] ]

diff --git a/docs/latex/annotated.tex b/docs/latex/annotated.tex
@@ -109,7 +109,7 @@ Here are the classes, structs, unions and interfaces with brief descriptions\+:\
 \item\contentsline{section}{\mbox{\hyperlink{structrpp_1_1details_1_1with__latest__from__impl}{rpp\+::details\+::with\+\_\+latest\+\_\+from\+\_\+impl$<$ Type, T\+Selector, T\+Observables $>$}} }{\pageref{structrpp_1_1details_1_1with__latest__from__impl}}{}
 \item\contentsline{section}{\mbox{\hyperlink{structrpp_1_1details_1_1with__latest__from__state__t}{rpp\+::details\+::with\+\_\+latest\+\_\+from\+\_\+state\+\_\+t$<$ Value\+Types $>$}} }{\pageref{structrpp_1_1details_1_1with__latest__from__state__t}}{}
 \item\contentsline{section}{\mbox{\hyperlink{classrpp_1_1schedulers_1_1worker}{rpp\+::schedulers\+::worker$<$ Strategy $>$}} }{\pageref{classrpp_1_1schedulers_1_1worker}}{}
-\item\contentsline{section}{\mbox{\hyperlink{classrpp_1_1schedulers_1_1new__thread_1_1worker__strategy}{rpp\+::schedulers\+::new\+\_\+thread\+::worker\+\_\+strategy}} }{\pageref{classrpp_1_1schedulers_1_1new__thread_1_1worker__strategy}}{}
 \item\contentsline{section}{\mbox{\hyperlink{classrpp_1_1schedulers_1_1immediate_1_1worker__strategy}{rpp\+::schedulers\+::immediate\+::worker\+\_\+strategy}} }{\pageref{classrpp_1_1schedulers_1_1immediate_1_1worker__strategy}}{}
+\item\contentsline{section}{\mbox{\hyperlink{classrpp_1_1schedulers_1_1new__thread_1_1worker__strategy}{rpp\+::schedulers\+::new\+\_\+thread\+::worker\+\_\+strategy}} }{\pageref{classrpp_1_1schedulers_1_1new__thread_1_1worker__strategy}}{}
 \item\contentsline{section}{\mbox{\hyperlink{structrpp_1_1schedulers_1_1details_1_1worker__tag}{rpp\+::schedulers\+::details\+::worker\+\_\+tag}} }{\pageref{structrpp_1_1schedulers_1_1details_1_1worker__tag}}{}
 \end{DoxyCompactList}

diff --git a/docs/latex/hierarchy.tex b/docs/latex/hierarchy.tex
@@ -250,8 +250,8 @@ This inheritance list is sorted roughly, but not completely, alphabetically\+:\b
 \item \contentsline{section}{rpp\+::details\+::window\+\_\+lift\+\_\+impl$<$ Type $>$}{\pageref{structrpp_1_1details_1_1window__lift__impl}}{}
 \item \contentsline{section}{rpp\+::details\+::with\+\_\+latest\+\_\+from\+\_\+impl$<$ Type, T\+Selector, T\+Observables $>$}{\pageref{structrpp_1_1details_1_1with__latest__from__impl}}{}
 \item \contentsline{section}{rpp\+::details\+::with\+\_\+latest\+\_\+from\+\_\+state\+\_\+t$<$ Value\+Types $>$}{\pageref{structrpp_1_1details_1_1with__latest__from__state__t}}{}
-\item \contentsline{section}{rpp\+::schedulers\+::new\+\_\+thread\+::worker\+\_\+strategy}{\pageref{classrpp_1_1schedulers_1_1new__thread_1_1worker__strategy}}{}
 \item \contentsline{section}{rpp\+::schedulers\+::immediate\+::worker\+\_\+strategy}{\pageref{classrpp_1_1schedulers_1_1immediate_1_1worker__strategy}}{}
+\item \contentsline{section}{rpp\+::schedulers\+::new\+\_\+thread\+::worker\+\_\+strategy}{\pageref{classrpp_1_1schedulers_1_1new__thread_1_1worker__strategy}}{}
 \item \contentsline{section}{rpp\+::schedulers\+::details\+::worker\+\_\+tag}{\pageref{structrpp_1_1schedulers_1_1details_1_1worker__tag}}{}
 \begin{DoxyCompactList}
 \item \contentsline{section}{rpp\+::schedulers\+::worker$<$ Strategy $>$}{\pageref{classrpp_1_1schedulers_1_1worker}}{}

diff --git a/docs/latex/refman.tex b/docs/latex/refman.tex
@@ -311,8 +311,8 @@
 \input{structrpp_1_1details_1_1with__latest__from__impl}
 \input{structrpp_1_1details_1_1with__latest__from__state__t}
 \input{classrpp_1_1schedulers_1_1worker}
-\input{classrpp_1_1schedulers_1_1new__thread_1_1worker__strategy}
 \input{classrpp_1_1schedulers_1_1immediate_1_1worker__strategy}
+\input{classrpp_1_1schedulers_1_1new__thread_1_1worker__strategy}
 \input{structrpp_1_1schedulers_1_1details_1_1worker__tag}
 \chapter{Example Documentation}
 \input{buffer_8cpp-example}
